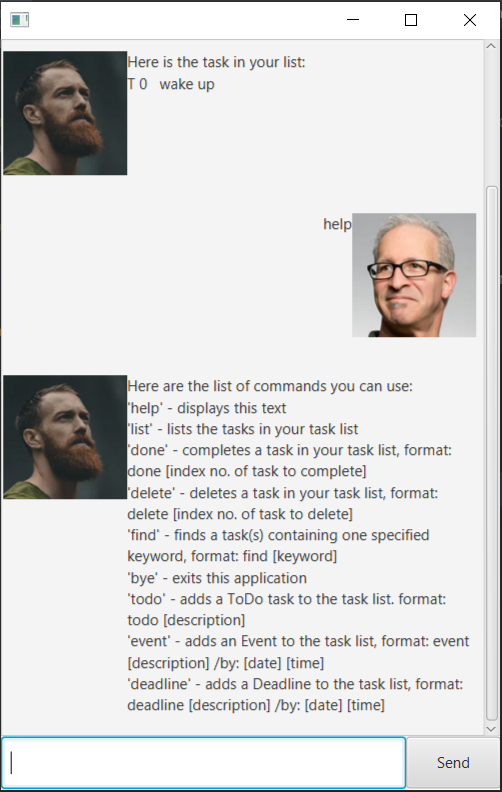
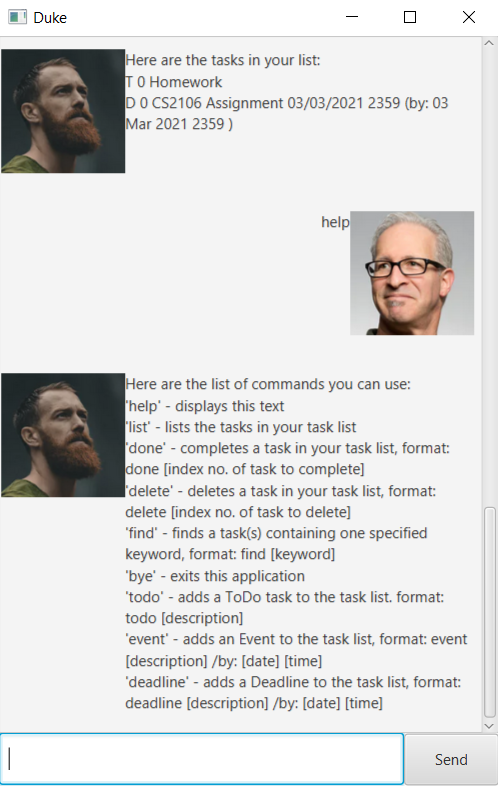
patch increasing whitespace formatting error, implement Duke title

diff --git a/src/main/java/Deadline.java b/src/main/java/Deadline.java
@@ -55,12 +55,12 @@ public class Deadline extends Task {
      */
     public String taskStatus() {
         if (this.isDone()) {
-            return "D 1 "
+            return "D 1"
                     + this.getTask_details()
                     + " (by: " + deadline.format(DateTimeFormatter.ofPattern("dd MMM yyyy")) + " "
                     + deadlineTime.format(DateTimeFormatter.ofPattern("HHmm")) + " )";
         } else {
-            return "D 0 "
+            return "D 0"
                     + this.getTask_details()
                     + " (by: " + deadline.format(DateTimeFormatter.ofPattern("dd MMM yyyy")) + " "
                     + deadlineTime.format(DateTimeFormatter.ofPattern("HHmm")) + " )";

diff --git a/src/main/java/Event.java b/src/main/java/Event.java
@@ -55,12 +55,12 @@ public class Event extends Task {
      */
     public String taskStatus() {
         if (this.isDone()) {
-            return "E 1 "
+            return "E 1"
                     + this.getTask_details()
                     + " (on: " + date.format(DateTimeFormatter.ofPattern("dd MMM yyyy")) + " "
                     + time.format(DateTimeFormatter.ofPattern("HHmm")) + " )";
         } else {
-            return "E 0 "
+            return "E 0"
                     + this.getTask_details()
                     + " (on: " + date.format(DateTimeFormatter.ofPattern("dd MMM yyyy")) + " "
                     + time.format(DateTimeFormatter.ofPattern("HHmm")) + " )";

diff --git a/src/main/java/ToDo.java b/src/main/java/ToDo.java
@@ -37,9 +37,9 @@ public class ToDo extends Task {
      */
     public String taskStatus() {
         if (this.isDone()) {
-            return "T 1 " + this.getTask_details();
+            return "T 1" + this.getTask_details();
         } else {
-            return "T 0 " + this.getTask_details();
+            return "T 0" + this.getTask_details();
         }
     }
 }

diff --git a/src/main/java/Main.java b/src/main/java/Main.java
@@ -20,6 +20,7 @@ public class Main extends Application {
             AnchorPane ap = fxmlLoader.load();
             Scene scene = new Scene(ap);
             stage.setScene(scene);
+            stage.setTitle("Duke");
             fxmlLoader.<MainWindow>getController().setDuke(duke);
             stage.show();
         } catch (IOException e) {
